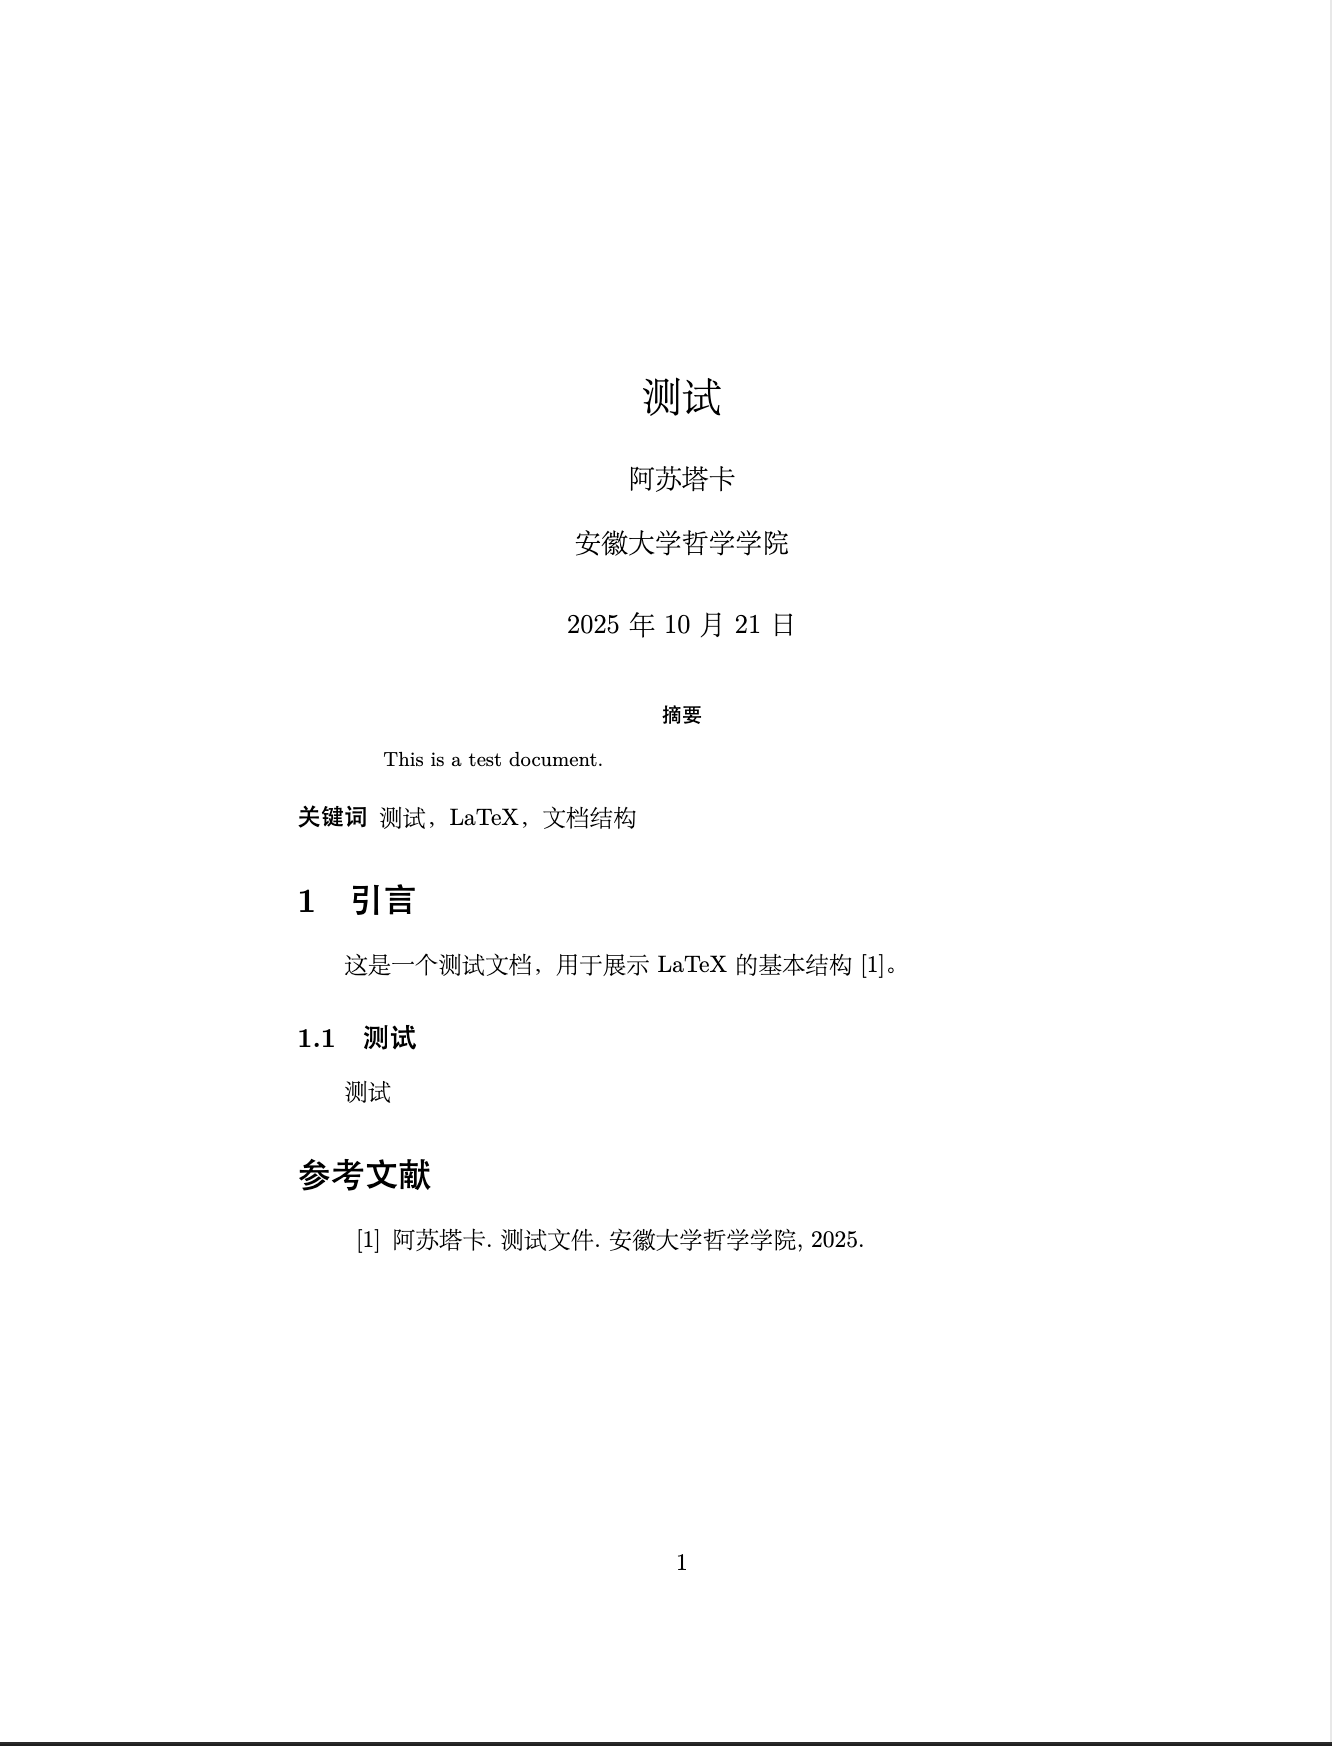
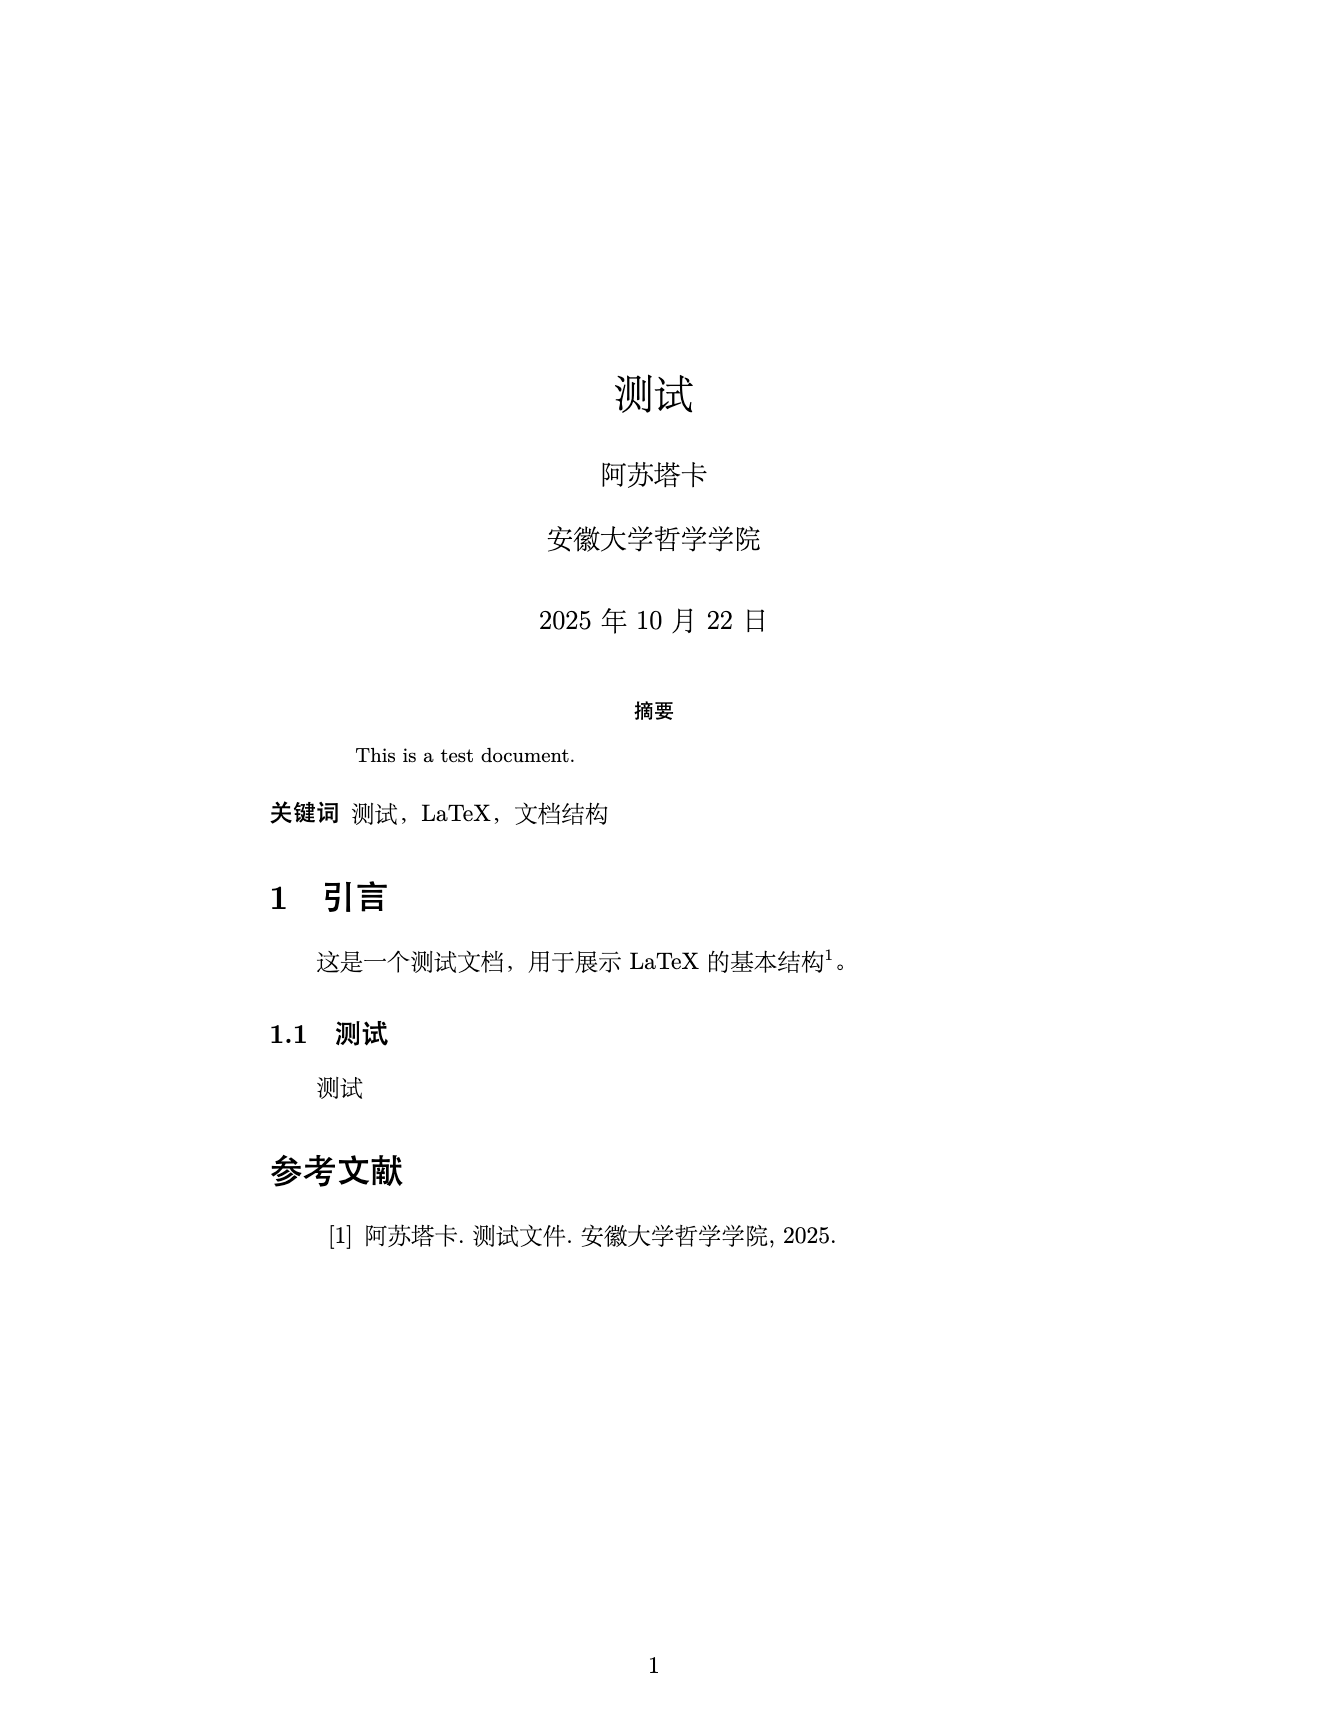
fix

diff --git a/模版.tex b/模版.tex
@@ -1,7 +1,8 @@
-\documentclass{article}
+\documentclass[a4paper]{article}
 \usepackage{authblk}
 \usepackage{ctex}
 \usepackage{titlesec}
+\usepackage[superscript]{cite}
 \title{测试}
 \author{阿苏塔卡}
 \affil{安徽大学哲学学院}

diff --git a/README.md b/README.md
@@ -1,5 +1,7 @@
 # LaTeX-template-of-college-article
 一个由XeLaTeX编写的简易大学哲学作业/论文用模版
+# 2025.10.22更新
+经过部分推u指正，本人最初版本在排版时出现了部分格式错误，于是特此进行相关修改，使之符合论文标准需要。对此十分感谢大家能够指出自己的错误
 # 编写缘由
 心理课老师布置课后作业，同时鼓励同学使用标准化的论文格式完成。出于简化流程以及保证格式标准化需要，本人通过XeLaTeX语言编写了一个论文模版，用于完成相关作业以及应对一定的论文编写工作。
 （ps:在本校哲学学院包含哲学和应用心理学两个专业，因此两者是不分家的）
